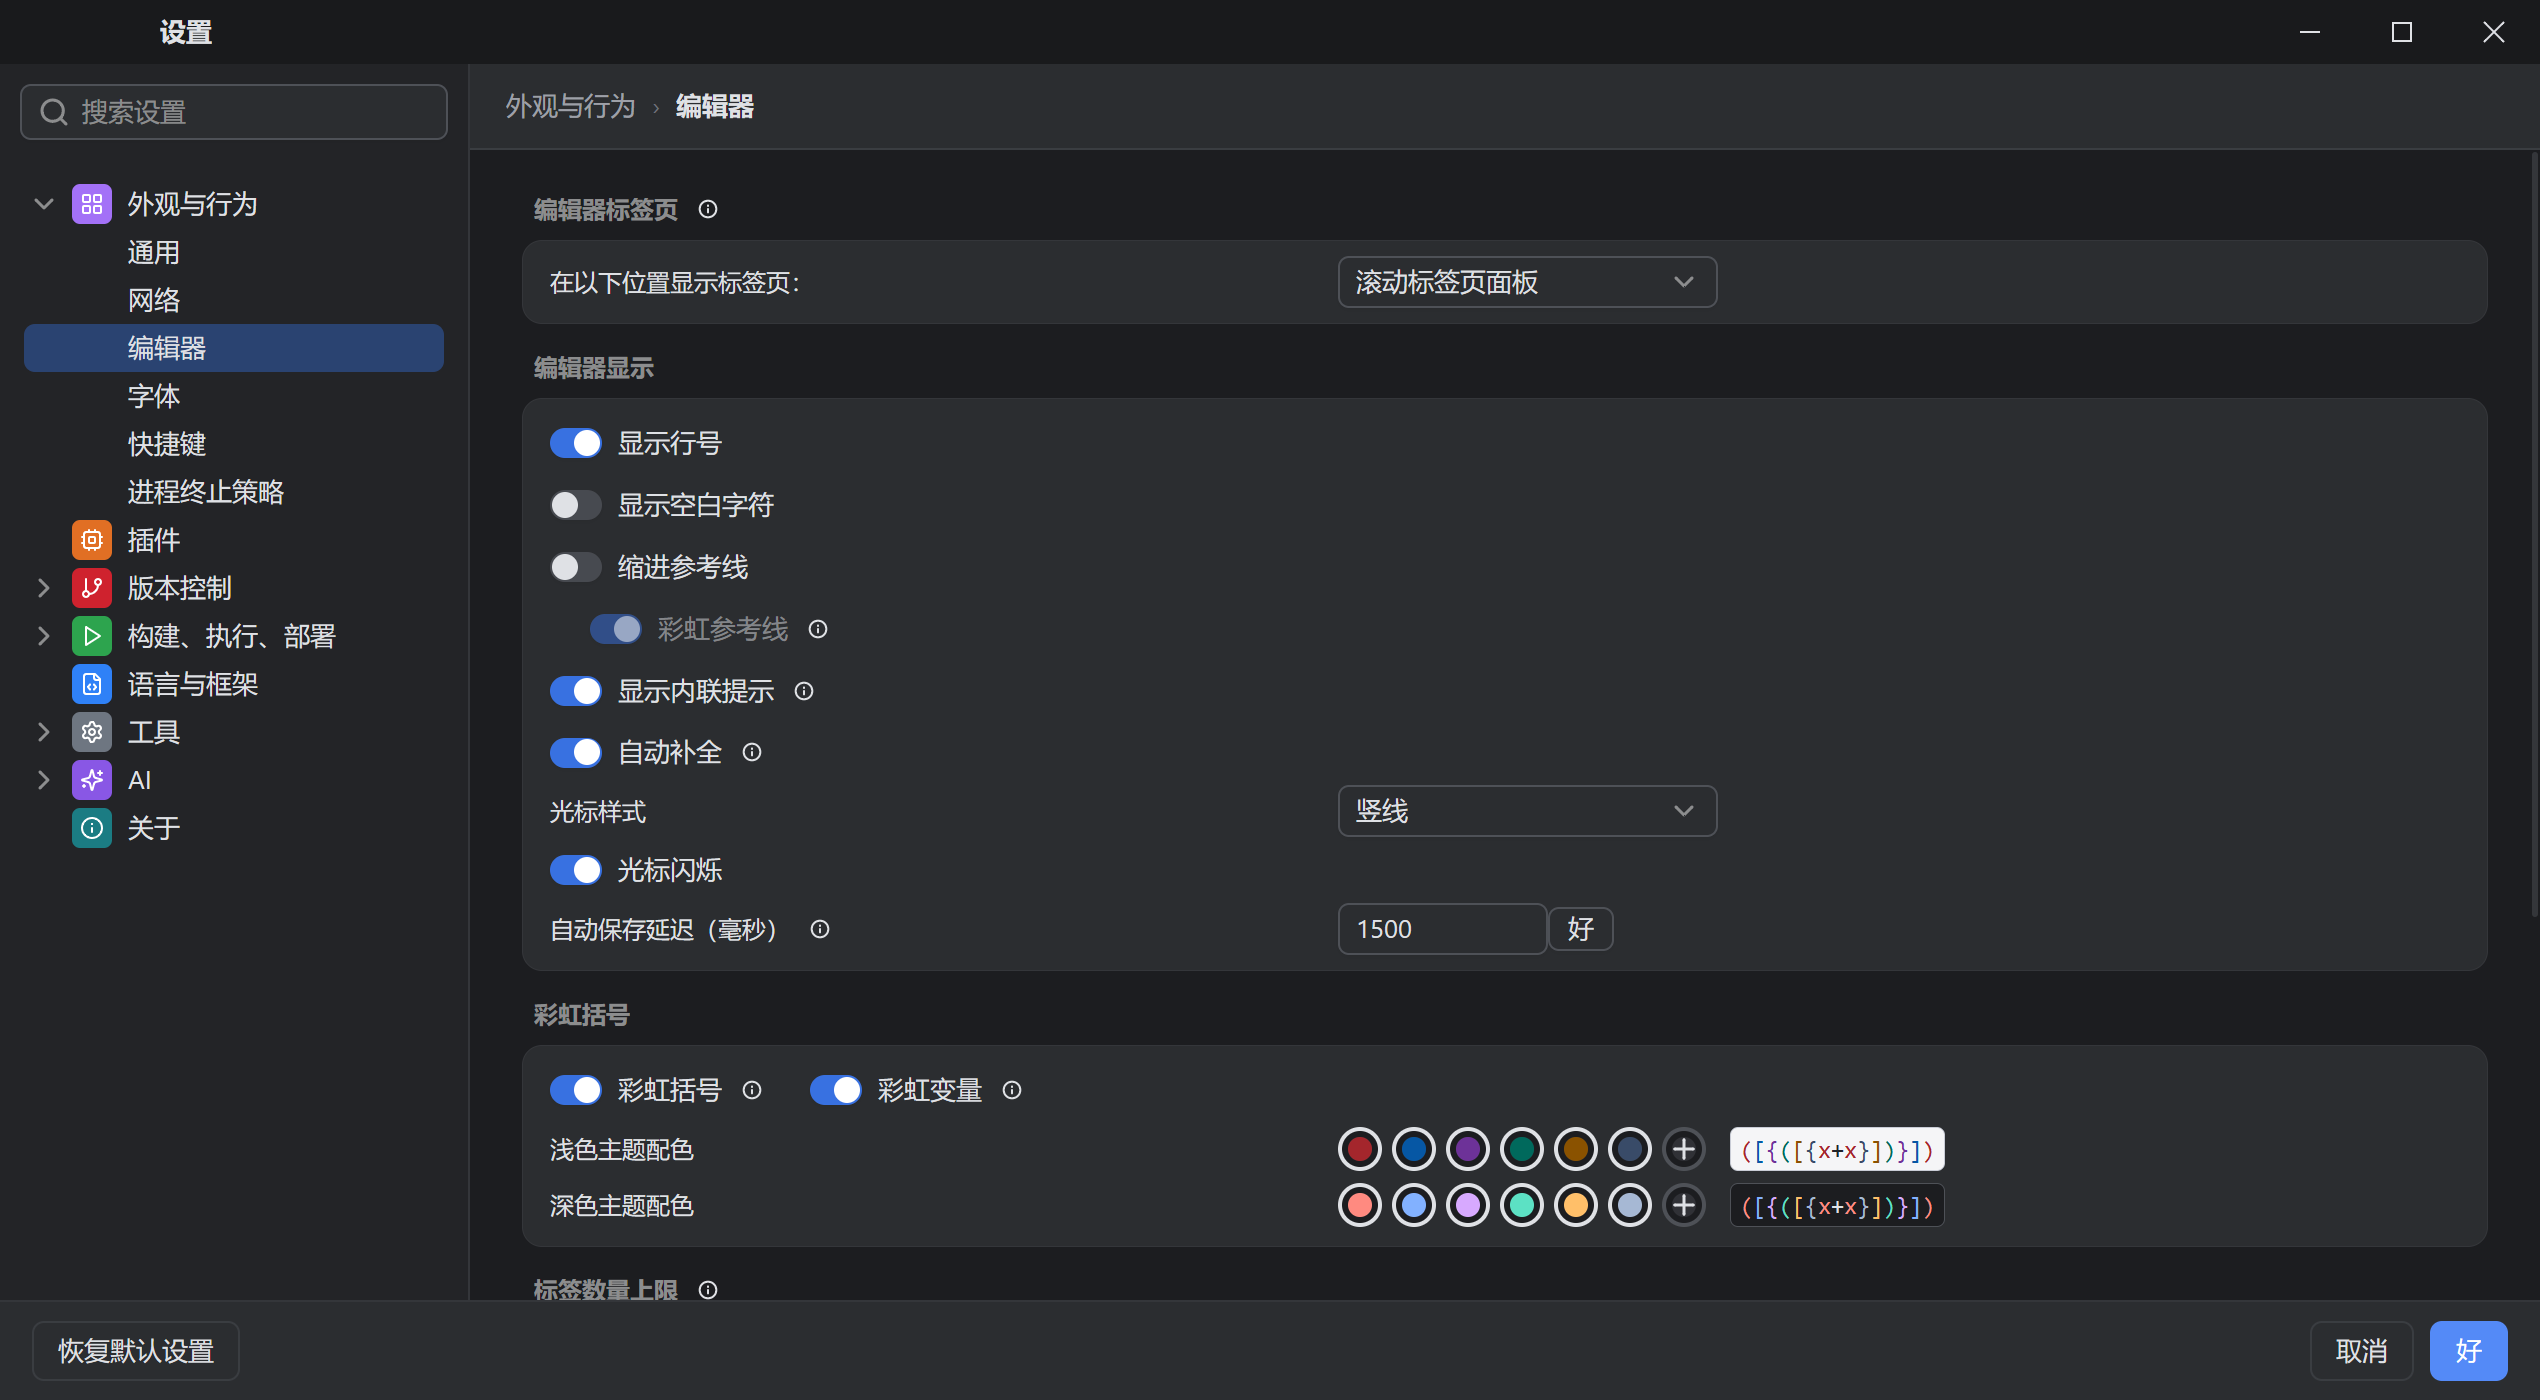
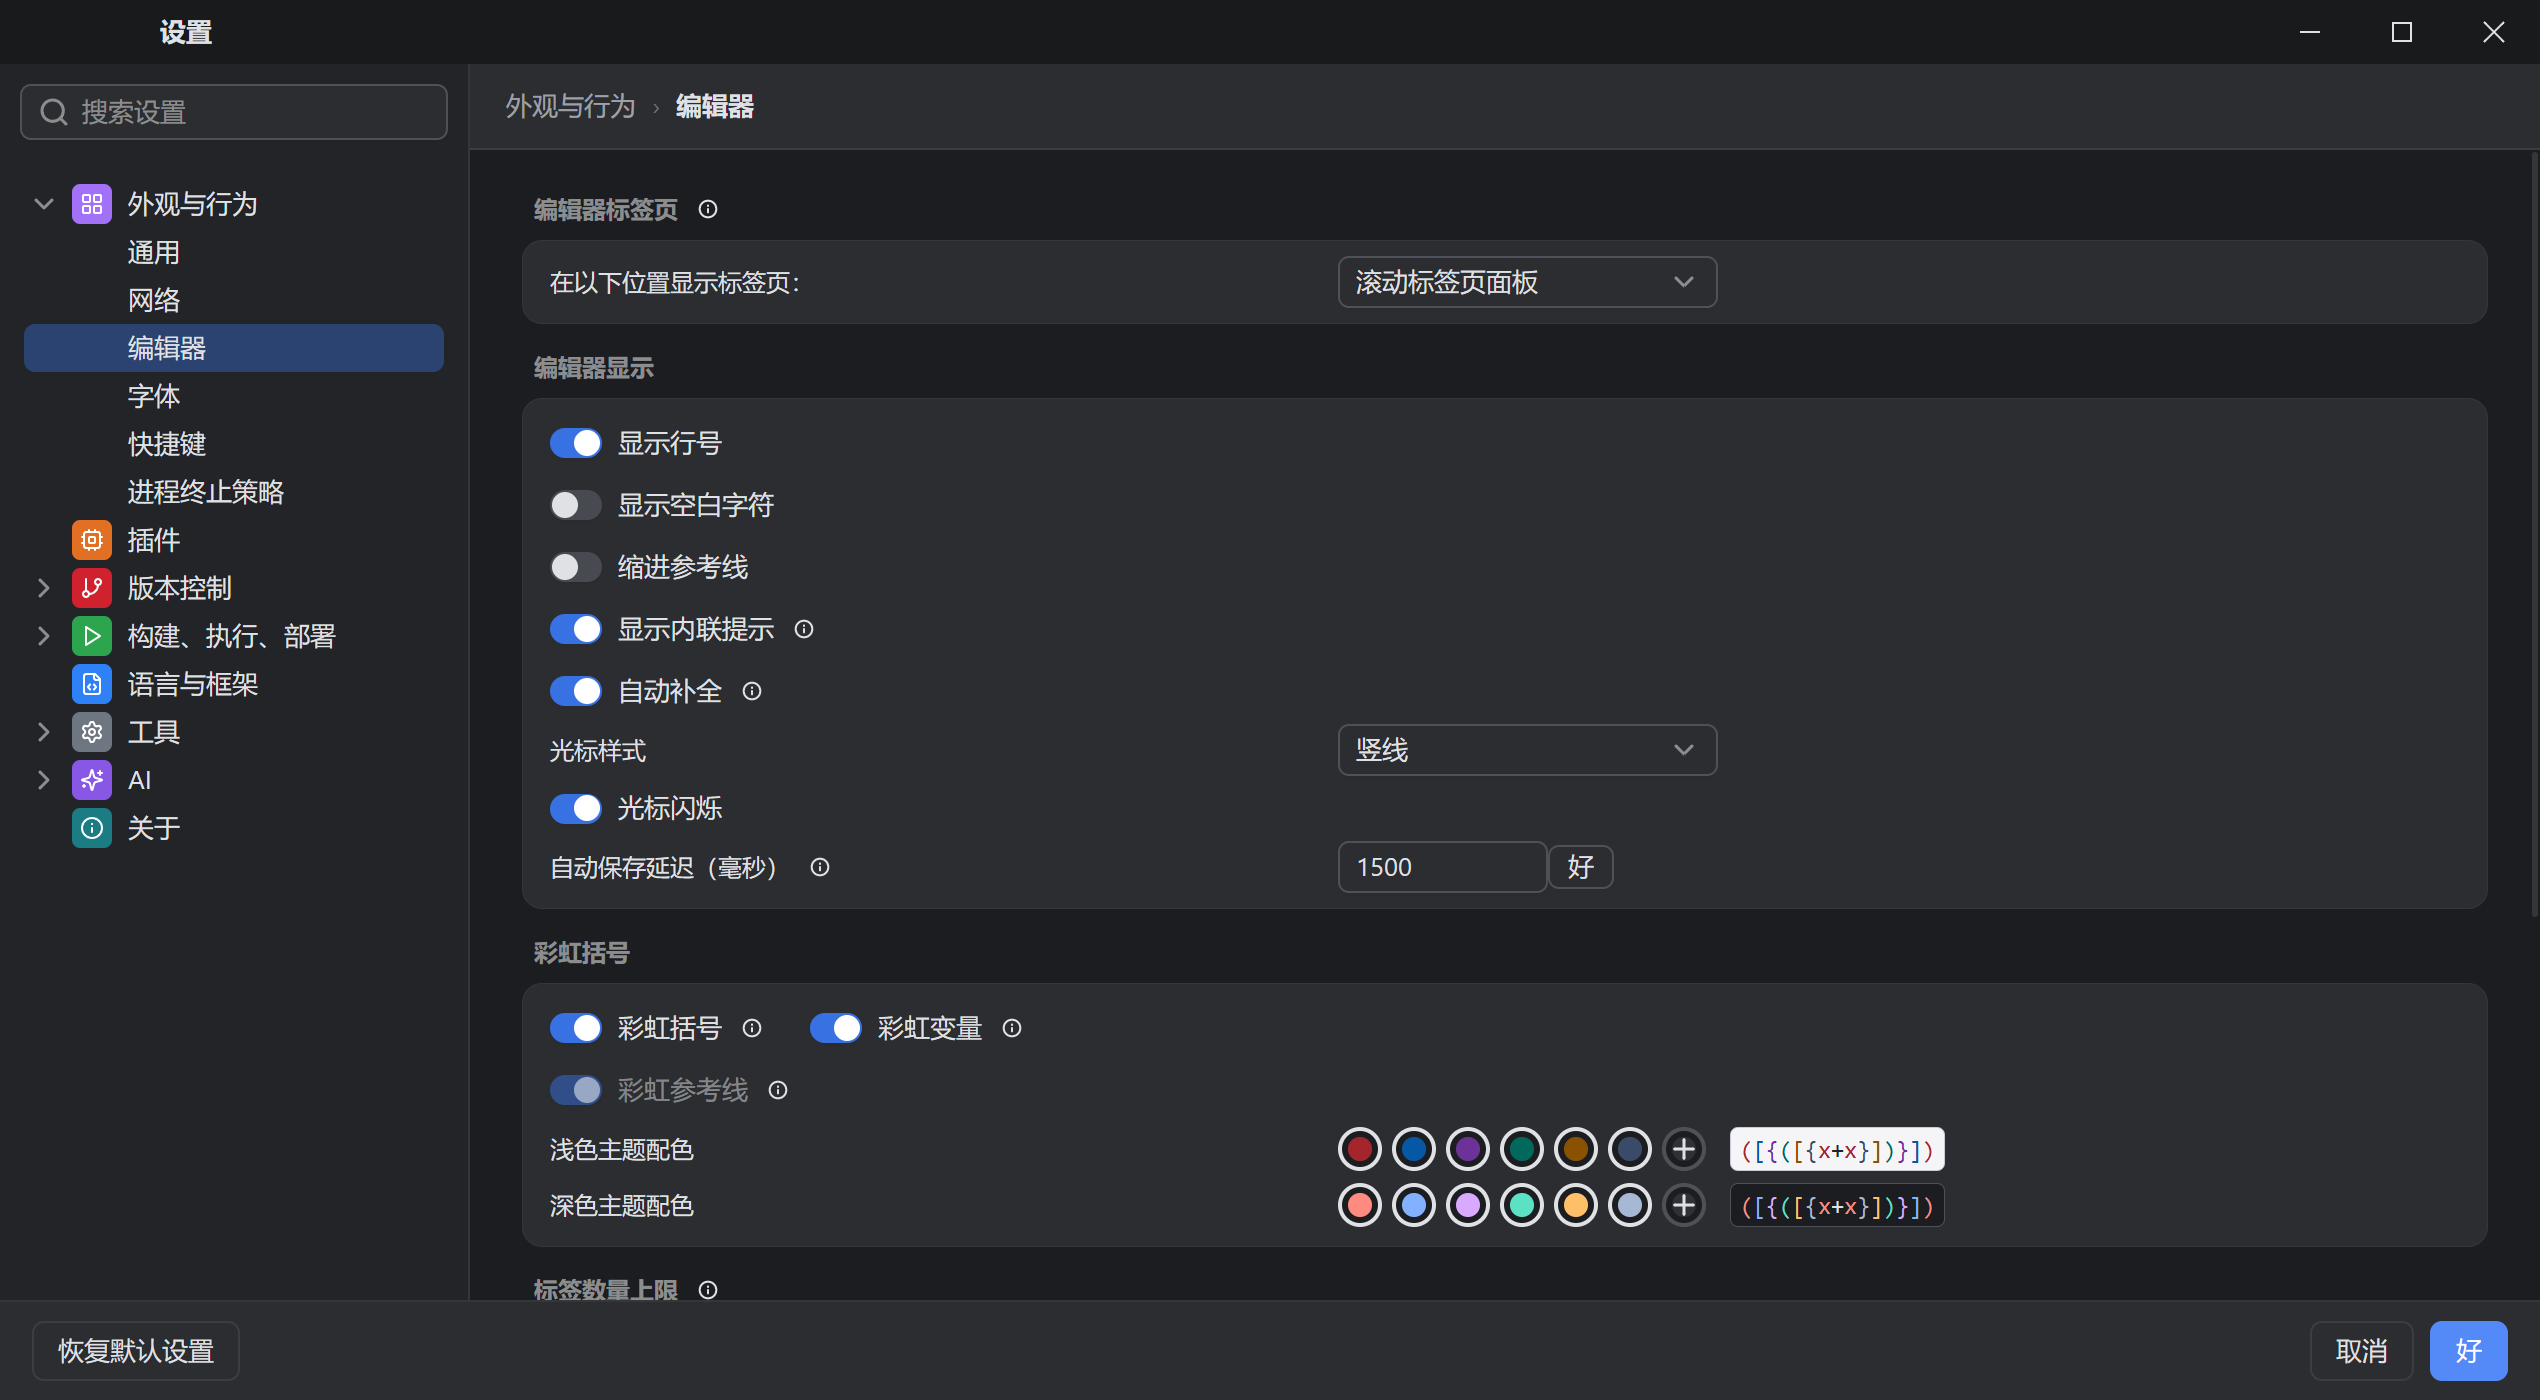
fix(settings): group rainbow indent guides with rainbow colors

diff --git a/desktop/internal/settingswindow/editor_rainbow_section_test.go b/desktop/internal/settingswindow/editor_rainbow_section_test.go
@@ -32,9 +32,10 @@ func TestEditorRainbowSettingsHaveTheirOwnSection(t *testing.T) {
 				t.Fatal("rainbow settings have no separate section heading")
 			}
 			display := d.hit(i18n.Shared(language, "desktop.editorPrefs.cursorBlink"))
+			indent := d.hit(i18n.Shared(language, "desktop.editorPrefs.indentGuides"))
 			guides := d.hit(i18n.Shared(language, "desktop.editorPrefs.rainbowIndentGuides"))
 			variables := d.hit(i18n.Shared(language, "desktop.editorPrefs.rainbowVariables"))
-			if display.Bounds.Y+display.Bounds.Height >= heading.Y || guides.Bounds.Y+guides.Bounds.Height >= heading.Y || variables.Bounds.Y < heading.Y {
+			if display.Bounds.Y+display.Bounds.Height >= heading.Y || indent.Bounds.Y+indent.Bounds.Height >= heading.Y || guides.Bounds.Y < heading.Y || variables.Bounds.Y < heading.Y {
 				t.Fatal("display controls and rainbow controls are not in separate sections")
 			}
 			for _, key := range []string{"desktop.editorPrefs.rainbowLightColors", "desktop.editorPrefs.rainbowDarkColors"} {

diff --git a/desktop/internal/settingswindow/editor_preferences_view.go b/desktop/internal/settingswindow/editor_preferences_view.go
@@ -40,13 +40,6 @@ func (w *window) editorPresentationCard(c ui.C) {
 		if ui.Switch(c.Part("indent-guides"), &current.IndentGuides, i18n.Shared(lang, "desktop.editorPrefs.indentGuides")).Changed() {
 			w.setEditorPresentation(current)
 		}
-		ui.Row(c.Part("rainbow-indent-guides-row")).MarginLeft(20).Items(ui.Center).Gap(6).Children(func() {
-			if ui.Switch(c.Part("rainbow-indent-guides"), &current.RainbowIndentGuides, i18n.Shared(lang, "desktop.editorPrefs.rainbowIndentGuides")).
-				Disabled(!current.IndentGuides).Changed() {
-				w.setEditorPresentation(current)
-			}
-			w.infoButton(c.Part("rainbow-indent-guides-info"), i18n.Shared(lang, "desktop.editorPrefs.rainbowIndentGuidesHelp"))
-		})
 		ui.Row(c).FillWidth().Items(ui.Center).Gap(6).Children(func() {
 			if ui.Switch(c.Part("inlay-hints"), &current.InlayHints, i18n.Shared(lang, "desktop.editorPrefs.inlayHints")).Changed() {
 				w.setEditorPresentation(current)

diff --git a/desktop/internal/settingswindow/editor_rainbow_brackets_view.go b/desktop/internal/settingswindow/editor_rainbow_brackets_view.go
@@ -96,6 +96,13 @@ func (w *window) rainbowControls(c ui.C, current core.EditorPreferences) {
 			w.infoButton(c.Part("variables-info"), i18n.Shared(lang, "desktop.editorPrefs.rainbowVariablesHelp"))
 		})
 	})
+	ui.Row(c.Part("rainbow-indent-guides-row")).Items(ui.Center).Gap(6).Children(func() {
+		if ui.Switch(c.Part("rainbow-indent-guides"), &current.RainbowIndentGuides, i18n.Shared(lang, "desktop.editorPrefs.rainbowIndentGuides")).
+			Disabled(!current.IndentGuides).Changed() {
+			w.setEditorPresentation(current)
+		}
+		w.infoButton(c.Part("rainbow-indent-guides-info"), i18n.Shared(lang, "desktop.editorPrefs.rainbowIndentGuidesHelp"))
+	})
 	if !current.RainbowBrackets && !current.RainbowVariables && !current.RainbowIndentGuidesEffective {
 		return
 	}

diff --git a/desktop/internal/settingswindow/editor_essentials_test.go b/desktop/internal/settingswindow/editor_essentials_test.go
@@ -245,7 +245,7 @@ func TestEditorIndentGuidesPreserveRainbowPreference(t *testing.T) {
 	light := i18n.Shared(i18n.English, "desktop.editorPrefs.rainbowLightColors")
 	swatch := i18n.SharedFormat(i18n.English, "desktop.editorPrefs.rainbowPaletteColor", map[string]string{"palette": light, "number": "1"})
 	parent, child := d.hit(guides), d.hit(rainbow)
-	if !parent.Checked || child.Checked || child.Disabled || child.Bounds.X <= parent.Bounds.X || d.has(swatch) {
+	if !parent.Checked || child.Checked || child.Disabled || d.has(swatch) {
 		t.Fatalf("unexpected default guide controls: parent=%+v, child=%+v", parent, child)
 	}
 	d.click(rainbow)

diff --git a/docs/assets/builtin-rainbow/README.md b/docs/assets/builtin-rainbow/README.md
@@ -1,11 +1,11 @@
 # 内置彩虹配色与上下文高亮验证
 
-本目录截图更新至评审修复提交 `293d01fd4`（独立设置区块提交 `25e6ee51f`）。使用隔离合成源码与诊断，不依赖具体插件；已检查实际 PNG。
+工作台截图来自评审修复提交 `293d01fd4`；设置截图已在本次彩虹参考线分组调整后重新生成。使用隔离合成源码与诊断，不依赖具体插件；已检查实际 PNG。
 
 - 平台：物理 Windows amd64，本机 Intel Core Ultra 5 125H；Go 1.27.4、GNU Rust 1.100.0、MinGW x64。不是 Parallels 来宾或 ARM64 仿真验证。
 - 本地依赖：Core 功能提交 `6eccef4467d4b79f17b55fcd43f8d03e69d57ba1`（后续 CI 单测修复 `4f4cc06c` 不改生产行为）、Viva `d8c0a63`；Core #201 和 Viva #60 仍待合入。验证用覆盖只在忽略配置中，不证明默认固定版本可构建。
 - 工作台：`TestVisualEditorContextHighlights`（1000 × 640 逻辑像素，浅色英文、深色中文）和 `TestVisualProblemsSourcePreviewRainbow`（1440 × 1000，两主题、英文）。
-- 设置：`TestVisualEditorEssentialsSettings/editor-settings-*`（浅色英文、深色中文）。彩虹括号、变量和两套色板单独成区块；基础显示、参考线仍在原区块。包含关闭/启用、两主题色板和选色器。
+- 设置：`TestVisualEditorEssentialsSettings/editor-settings-*`（浅色英文、深色中文）。彩虹括号、变量、彩虹参考线和两套色板放在同一区块；普通缩进参考线保留在编辑器显示区块。包含关闭/启用、两主题色板和选色器。
 - 入口：`scripts/desktop/desktop-go.sh test -tags vivahead,lithevisual ./internal/workbench ./internal/settingswindow`，用 `-run` 选择上述场景，设置 `LITHE_VISUAL_OUTPUT_DIR`。
 
 `context-before-*` 与 `context-symbol-*` 是同一选区的前后对照，`context-brackets-*` 展示配对端。`editor-settings-rainbow-*` 展示独立设置区块，`problems-source-preview-rainbow-*` 展示主编辑器与完整源码预览共享配色、配对和参考线。
@@ -33,3 +33,5 @@
 候选前后比较在编译结束后相邻运行，表中为 6 样本中位数。改动后候选场景每次迭代分配最多约 1.36 MiB，低于新增 3 MiB 预算；没有修改既有预算。Core 结果复用另有测试：关闭前景色仍保留配对/参考线，候选相同时返回同一结果，开关变化时重新调用 Core。
 
 完整报告：之前的 Rope LineOf 规模比 2.85（上限 2）和 longline-wrap 输入 2.53（上限 2）已超限；本轮分别为 2.55 和 2.58。新增 minimap 绘制 1.73（上限 1.5）。视图后段出现其他项目编译，原始报告带有负载干扰；已检查这些路径：本轮没有修改 Rope 查找、小地图绘制、长行输入或绘制循环，绘制和滚动仍为 0 B/op、0 allocs/op。不能据此将原始时间比直接归因为代码回归，后续固定 CPU 的复核单列。当前 CPU 不同于 Apple M4，绝对耗时上限不判定。
+
+本次分组调整：先确认中英文分区回归在移动前失败，移动后 8 项计时结果通过；保留普通参考线关闭时禁用彩虹开关、保存选择、重新开启后恢复和色板显隐。明暗主题设置场景已重拍并检查，不涉及编辑器绘制或 Core 行为变更。
